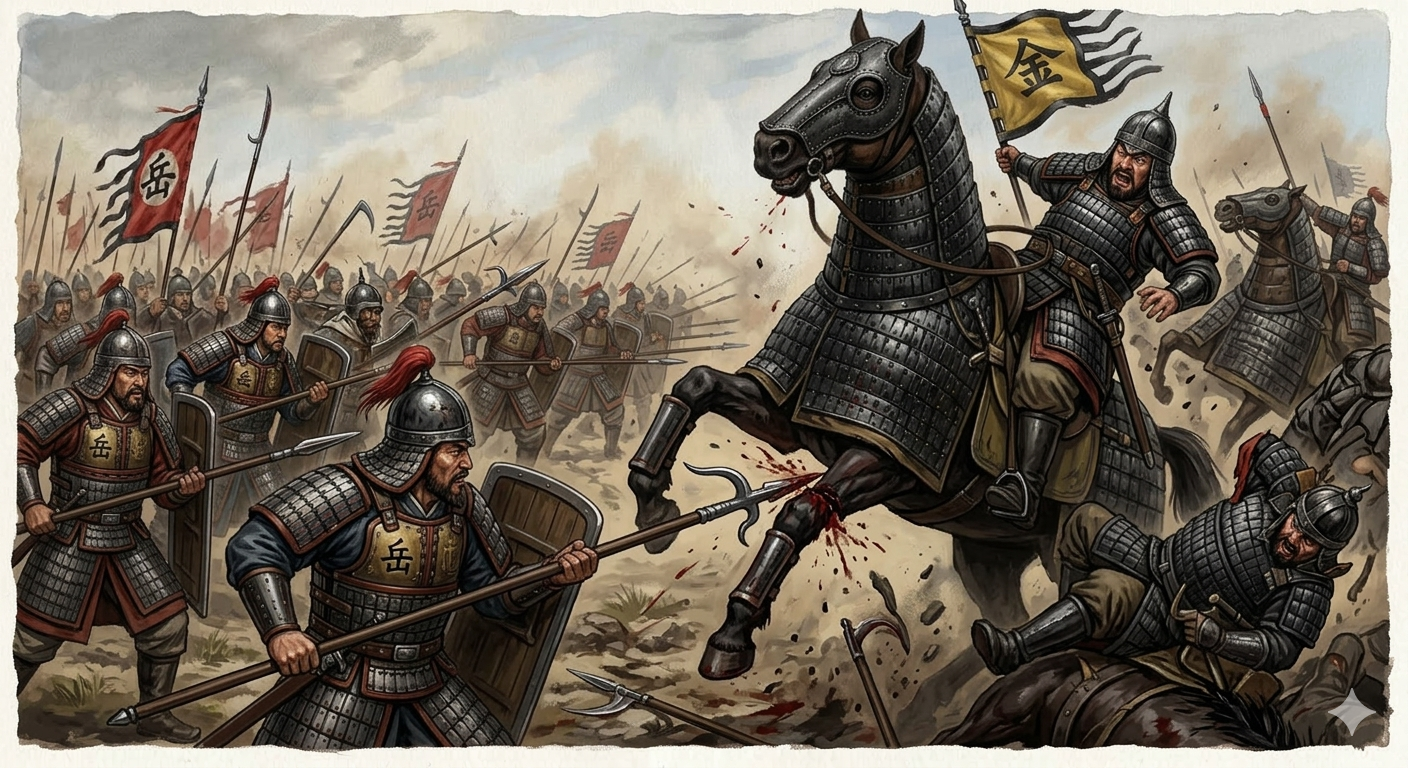
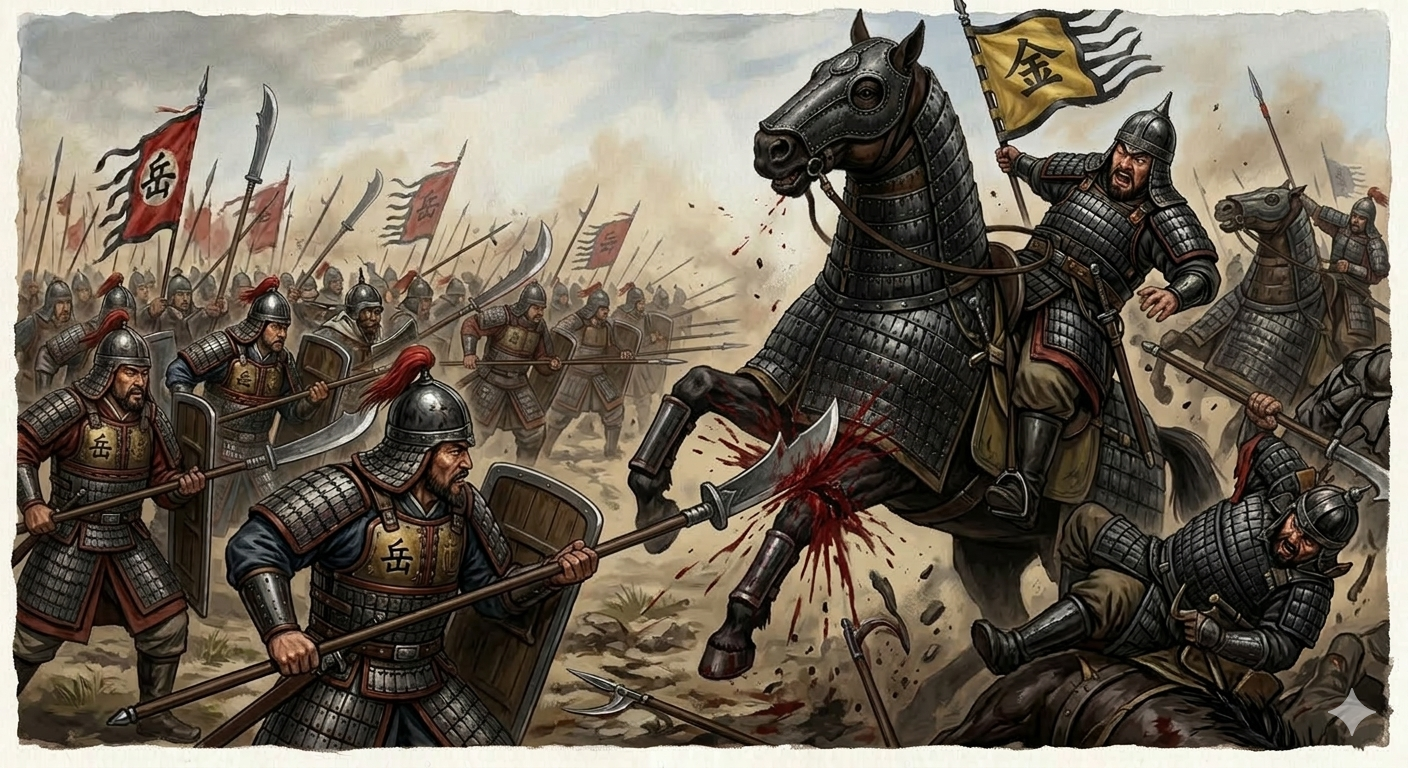
Update 南宋-1.md with new content and illustration

diff --git a/南宋-1.md b/南宋-1.md
@@ -101,10 +101,11 @@
 
 "家"这个字，意味着这支军队不再是朝廷账本上的一个编号，而是一个有血有肉的共同体。将领认识每一个士兵的面孔，士兵信任自己将领的判断。他们一起挨饿，一起行军，一起杀敌，一起活下来。将领的命运就是士兵的命运，士兵的生死就是将领的责任。
 
-**袍泽之情**。
 
 >岂曰无衣？与子同袍。王于兴师，修我戈矛，与子同仇！
 >—— 先秦《无衣》
+
+**袍泽之情**。
 
 
 <p align="center">
@@ -317,7 +318,7 @@
 
 "或谓"——据说。李心传用了这个审慎的措辞。但即便只是传闻，它传递的信息也足够震撼：堂堂大金国四太子完颜宗弼，为了逃命，剃掉了自己的胡须和头发——女真人最引以为傲的标志——乔装逃走。
 
-一个剃掉胡须逃命的统帅，和一支踩着同袍尸体仰攻的军队。
+惨败。
 
 这就是和尚原之战的结局。
 
@@ -456,6 +457,17 @@
 
 **它证明了一件事：换一个战场，金军不堪一击。**
 
+<p align="center">
+  <img src="https://raw.githubusercontent.com/jacob-sheng/history-blogs-doc/main/photobed/nansong-1/huangtiandang-overview-map.png" alt="黄天荡区位图：黄天荡在今南京龙潭街道附近的长江江段位置" width="1000">
+</p>
+
+<p align="center">
+  <img src="https://raw.githubusercontent.com/jacob-sheng/history-blogs-doc/main/photobed/nansong-1/huangtiandang-breakout-map.png" alt="黄天荡之战水域态势图：韩世忠封锁线、金军被困区域与老鹳河故道逃脱路线" width="1000">
+</p>
+
+> 均为基于现代地图骨架的近似复原。
+
+
 在陆地上，金军的骑兵是无解的。但在水上，他们连韩世忠八千人都打不过，只能靠挖河沟逃命。这意味着，只要南宋守住长江，保持水军优势，金军的骑兵就永远无法从东部防线突破。长江天险加上南宋水军，构成了一道金军铁蹄无法逾越的屏障。
 
 这也是南宋后来能够偏安一百五十三年的地理基础。
@@ -472,15 +484,7 @@
 
 人就可以被打败。
 
-<p align="center">
-  <img src="https://raw.githubusercontent.com/jacob-sheng/history-blogs-doc/main/photobed/nansong-1/huangtiandang-overview-map.png" alt="黄天荡区位图：黄天荡在今南京龙潭街道附近的长江江段位置" width="1000">
-</p>
 
-<p align="center">
-  <img src="https://raw.githubusercontent.com/jacob-sheng/history-blogs-doc/main/photobed/nansong-1/huangtiandang-breakout-map.png" alt="黄天荡之战水域态势图：韩世忠封锁线、金军被困区域与老鹳河故道逃脱路线" width="1000">
-</p>
-
-> 均为基于现代地图骨架的近似复原。
 
 ---
 
@@ -555,7 +559,7 @@
   <img src="https://raw.githubusercontent.com/jacob-sheng/history-blogs-doc/main/photobed/nansong-1/yuejiajun-cut-horse-legs-illustration.png" alt="郾城作战示意图：岳家军步兵近战斫马足" width="1000">
 </p>
 
-> 见谅，真没找到相关图示，大香蕉画了一张，效果一般。
+> 见谅，真没找到相关图示，大香蕉画了一张，效果一般。不应为长矛，应为类似长柄砍刀的武器。
 
 **"勿仰视，第斫马足。"**
 
@@ -694,6 +698,8 @@
 
 十三年的血与火，淬炼出的刀锋，正指向北方。
 
+>待从头、收拾旧山河，朝天阙。
+>——岳飞《满江红·写怀》
 
 <p align="center">
   <img src="https://raw.githubusercontent.com/jacob-sheng/history-blogs-doc/main/photobed/nansong-1/zhuxianzhen-northern-expedition-camp-dusk.png" alt="朱仙镇北伐尾声意象图：四十五里外北望故都" width="1000">
